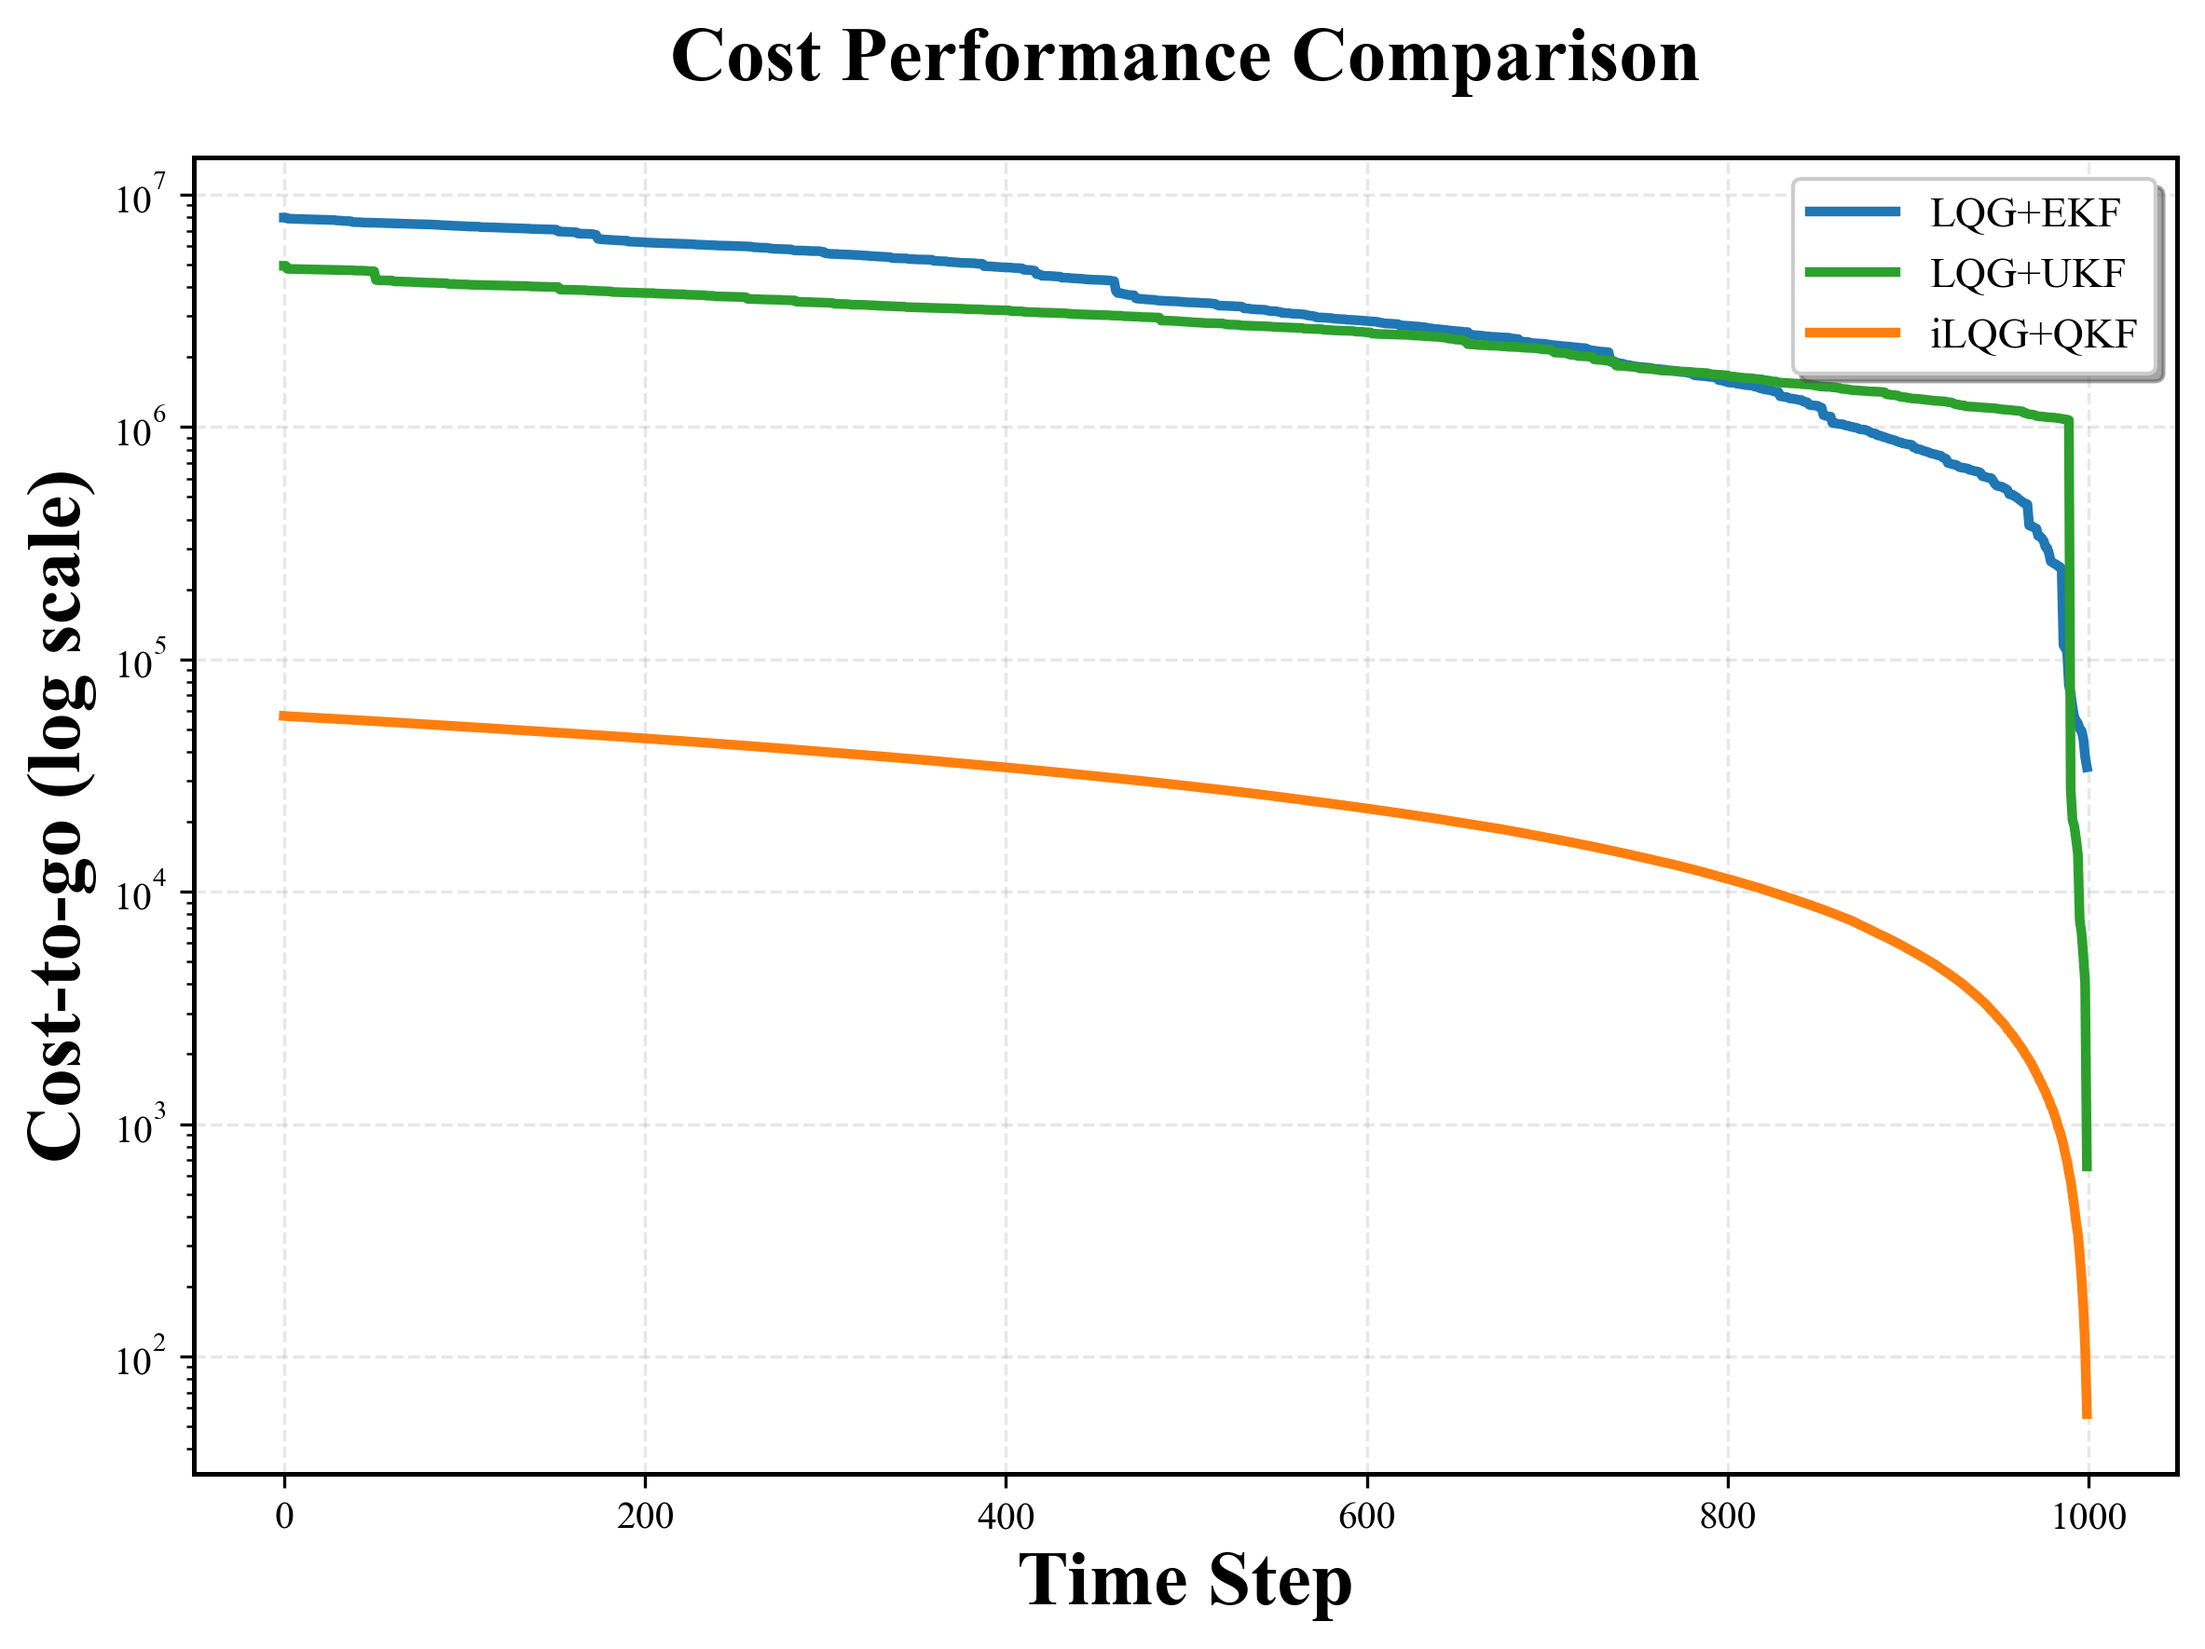
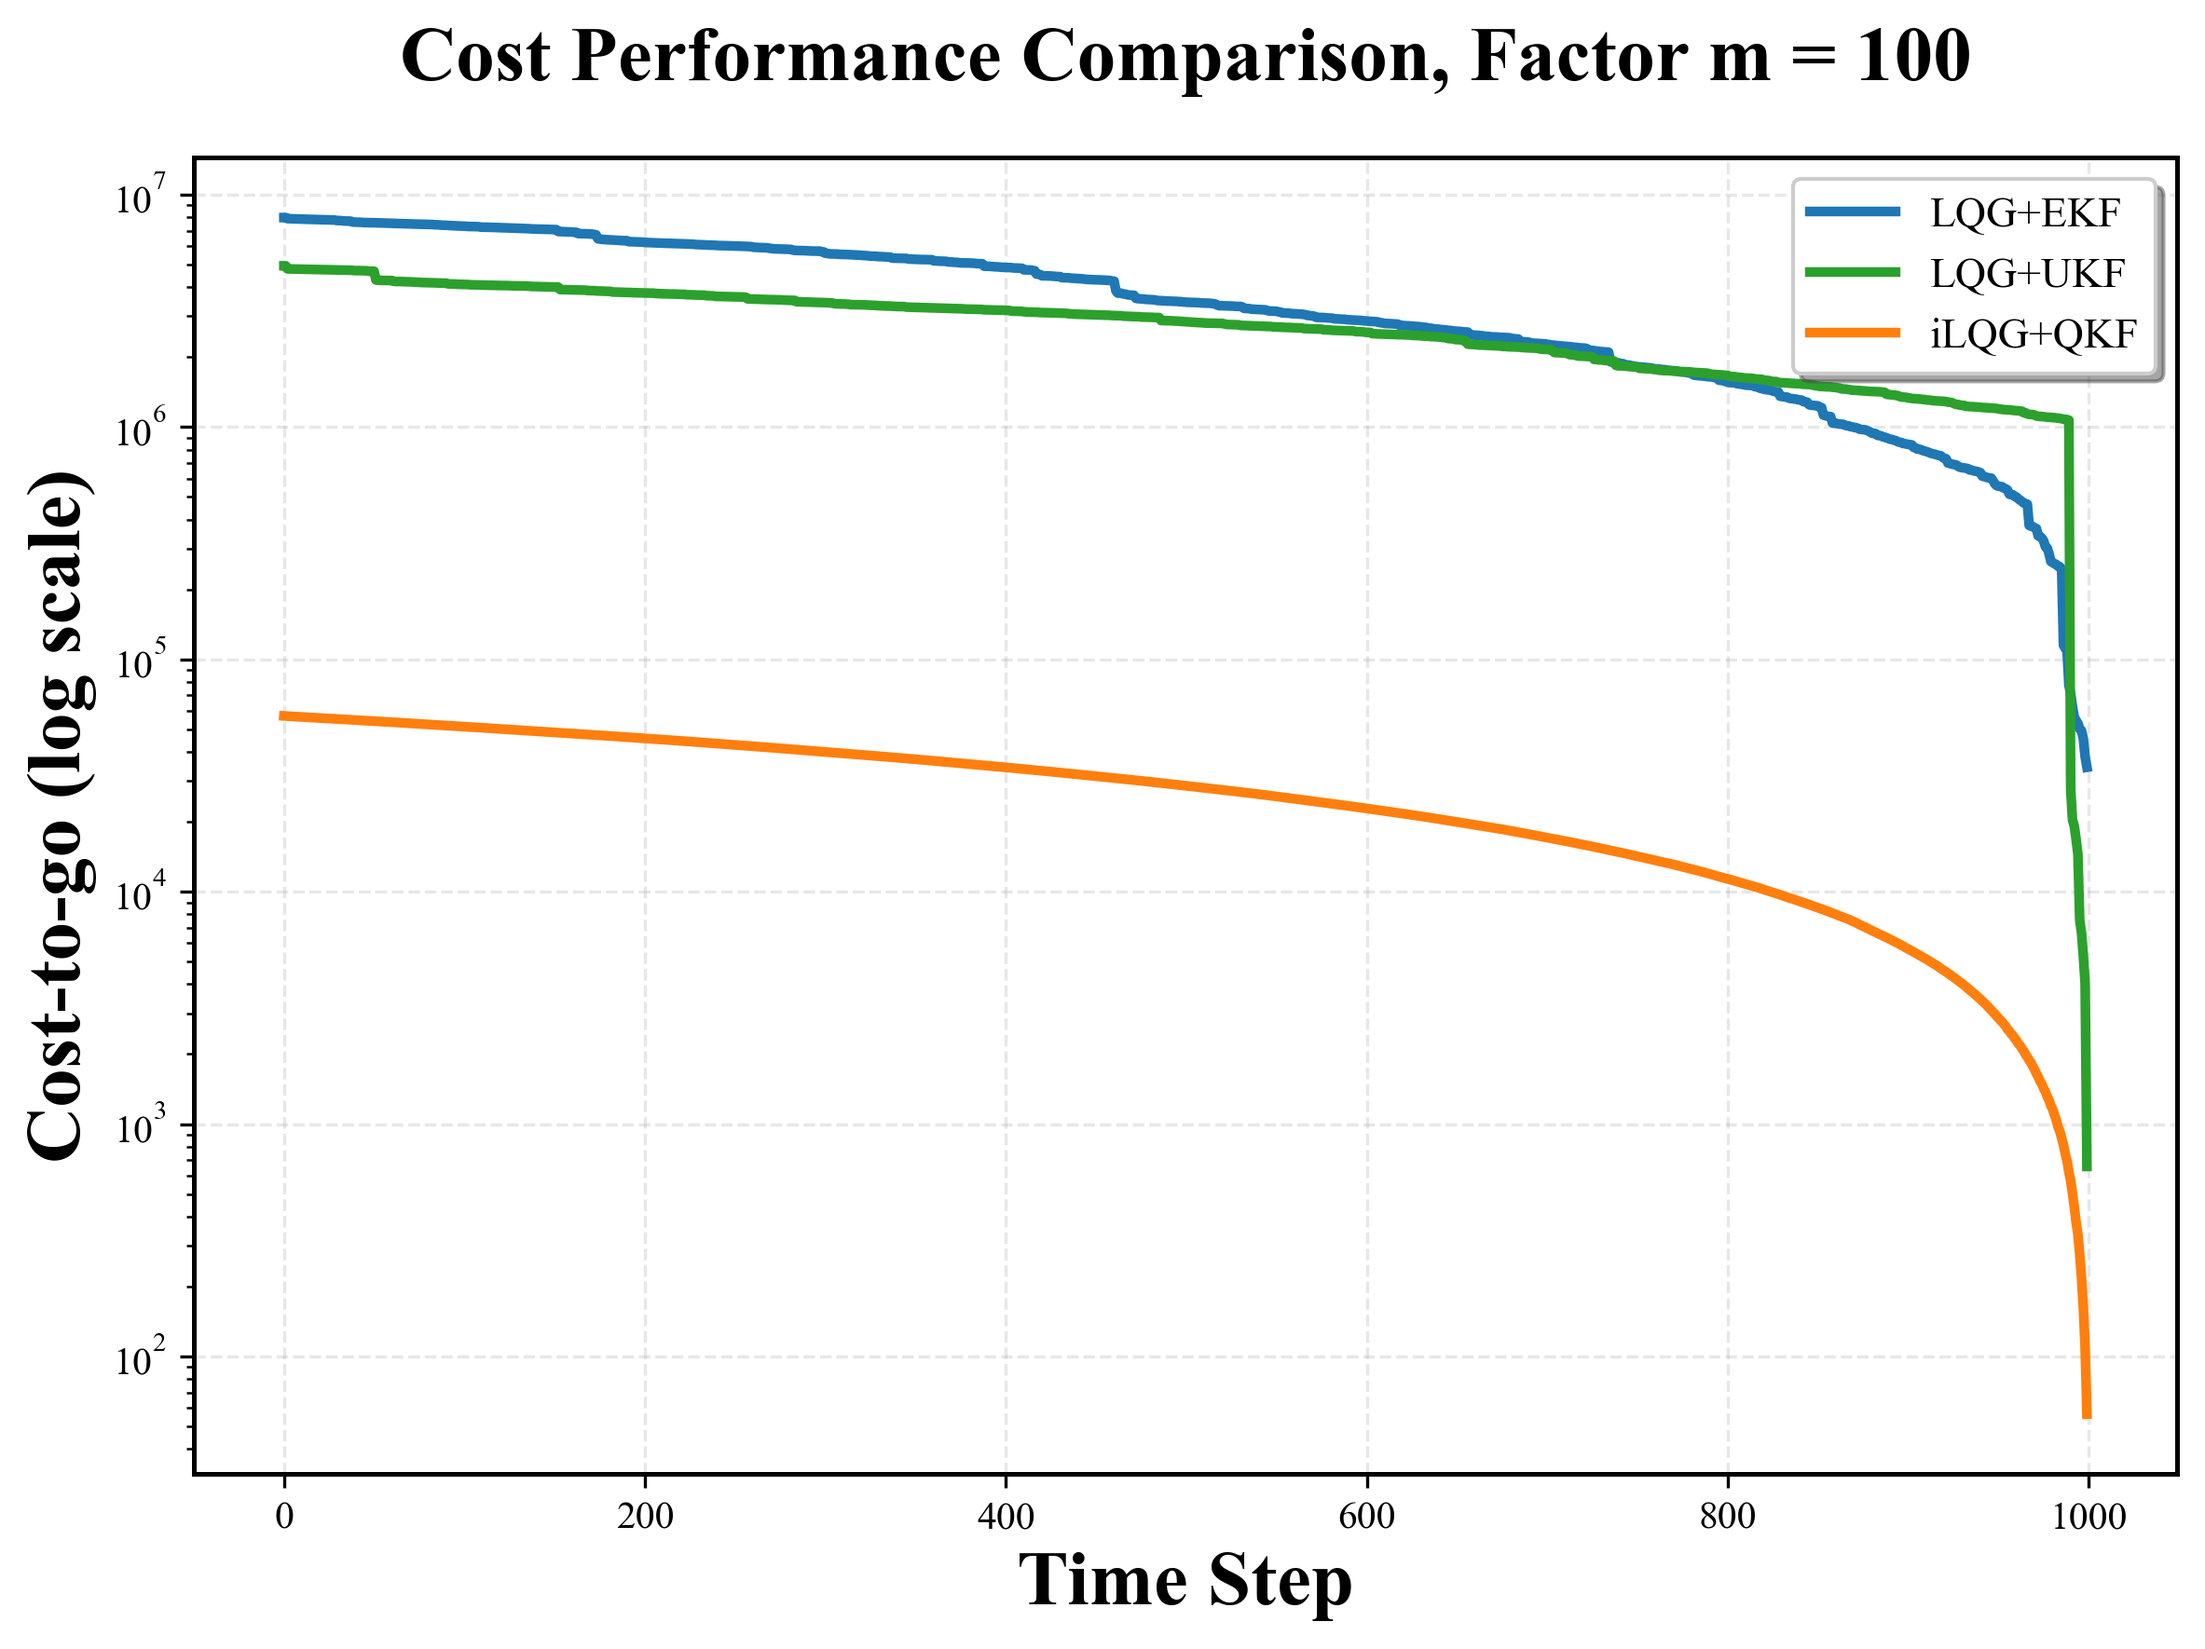
update plots

Changed region(s): [[0.1851, 0.0, 0.8022, 0.0621], [0.8331, 0.0, 0.8948, 0.0621]]

diff --git a/LQG_QKF/2025_summer/LQG_QKF.py b/LQG_QKF/2025_summer/LQG_QKF.py
@@ -889,7 +889,7 @@ def test(H=1000, trials=20, plot=True, noise_scale=1e-1, m_scale=1e2, Q_scale=1.
         fig.suptitle('Estimation Performance Comparison', fontsize=14, y=0.98, fontweight='bold')
         
         # Error subplot
-        ax[0].set_title(f'Estimation Error, m_scale={int(m_scale)}', fontsize=20, fontweight='bold', pad=15)
+        ax[0].set_title(f'Estimation Error, Factor m = {int(m_scale)}', fontsize=20, fontweight='bold', pad=15)
         ax[0].set_xlabel('Time Step', fontsize=20, fontweight='bold')
         ax[0].set_ylabel('Mean Squared Error', fontsize=20, fontweight='bold')
         ax[0].plot(err_list_ekf_avg, label='EKF', color=PUBLICATION_COLORS['ekf'], linewidth=2.5)
@@ -916,7 +916,7 @@ def test(H=1000, trials=20, plot=True, noise_scale=1e-1, m_scale=1e2, Q_scale=1.
 
         # Plot cost performance comparison with publication-ready styling
         fig, ax = plt.subplots(figsize=(8, 6))
-        ax.set_title('Cost Performance Comparison', fontsize=20, fontweight='bold', pad=20)
+        ax.set_title(f'Cost Performance Comparison, Factor m = {int(m_scale)}', fontsize=20, fontweight='bold', pad=20)
         ax.set_xlabel('Time Step', fontsize=20, fontweight='bold')
         ax.set_ylabel('Cost-to-go (log scale)', fontsize=20, fontweight='bold')
         
@@ -959,8 +959,8 @@ def test(H=1000, trials=20, plot=True, noise_scale=1e-1, m_scale=1e2, Q_scale=1.
         
         # Subplot 1: Convergence times
         ax1 = axes[0, 0]
-        ax1.set_title('Time to Convergence', pad=25, fontsize=20, fontweight='bold')
-        
+        ax1.set_title(f'Time to Convergence, Factor m = {int(m_scale)}', pad=25, fontsize=20, fontweight='bold')
+
         # Plot convergence times with enhanced styling
         trials_range = range(trials)
         ax1.plot(trials_range, convergence_ekf, label='LQG+EKF', marker='o', markersize=6, alpha=0.8, 
@@ -977,7 +977,7 @@ def test(H=1000, trials=20, plot=True, noise_scale=1e-1, m_scale=1e2, Q_scale=1.
         
         # Subplot 2: Convergence statistics
         ax2 = axes[0, 1]
-        ax2.set_title('Convergence Statistics', pad=25, fontsize=20, fontweight='bold')
+        ax2.set_title(f'Average Convergence Time, Factor m = {int(m_scale)}', pad=25, fontsize=20, fontweight='bold')
         methods = ['LQG+EKF', 'LQG+UKF', 'iLQG+QKF']
         avg_conv_times = [np.mean(convergence_ekf), np.mean(convergence_ukf), np.mean(convergence_qkf_num)]
         std_conv_times = [np.std(convergence_ekf), np.std(convergence_ukf), np.std(convergence_qkf_num)]
@@ -999,7 +999,7 @@ def test(H=1000, trials=20, plot=True, noise_scale=1e-1, m_scale=1e2, Q_scale=1.
         
         # Subplot 3: Convergence rate (percentage converged vs time)
         ax3 = axes[1, 0]
-        ax3.set_title('Convergence Rate Over Time', pad=25, fontsize=20, fontweight='bold')
+        ax3.set_title(f'Convergence Rate Over Time, Factor m = {int(m_scale)}', pad=25, fontsize=20, fontweight='bold')
         time_steps = np.arange(0, H, 10)
         
         ekf_conv_rate = []
@@ -1024,7 +1024,7 @@ def test(H=1000, trials=20, plot=True, noise_scale=1e-1, m_scale=1e2, Q_scale=1.
         
         # Subplot 4: Final convergence status
         ax4 = axes[1, 1]
-        ax4.set_title('Final Convergence Status', pad=25, fontsize=20, fontweight='bold')
+        ax4.set_title(f'Convergence Rate, Factor m = {int(m_scale)}', pad=25, fontsize=20, fontweight='bold')
         conv_counts = [
             np.sum(np.array(convergence_ekf) < H),
             np.sum(np.array(convergence_ukf) < H),
@@ -1135,7 +1135,7 @@ def plot_nonlinearity_analysis(results):
 
 if __name__ == "__main__":
     test(H=1000, trials=100, plot=True, noise_scale=1e-1, m_scale=1e2, Q_scale=1.0, R_scale=1.0)
-    nonlinearity_test(H=1000, trials=10)
+    # nonlinearity_test(H=1000, trials=10)
         
 
 
